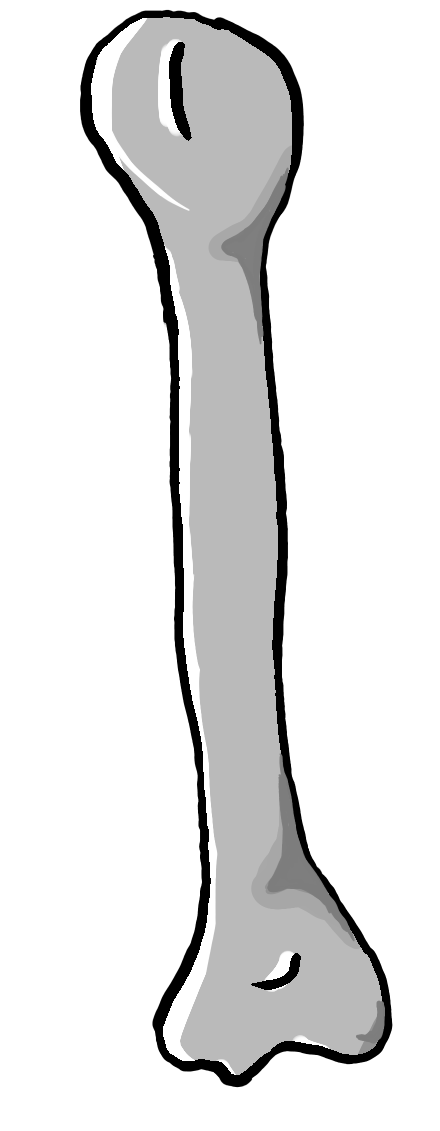
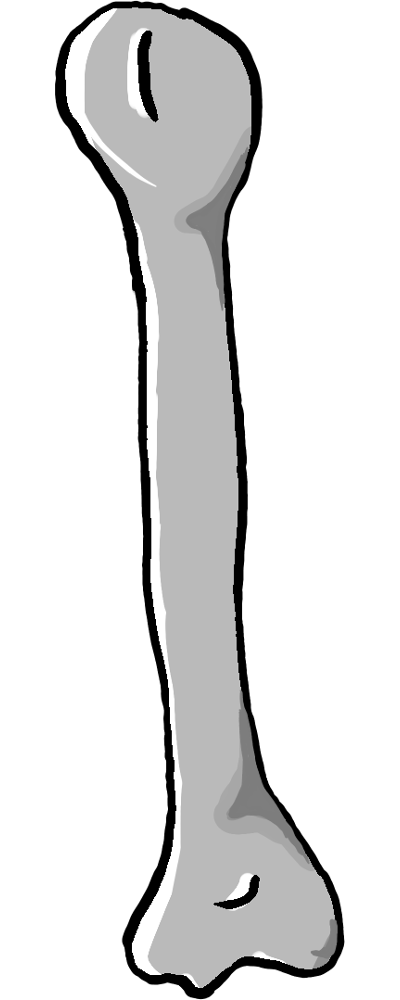
image tweaks for segment images. custom segment positions

Changed region(s): [[0.12, 0.0, 0.9, 1.0]]

diff --git a/posenet/demos/demo_util.js b/posenet/demos/demo_util.js
@@ -86,16 +86,16 @@ export function drawPoint(selection, y, x, r, color) {
 /**
  * Draws a line on a canvas, i.e. a joint
  */
-export function drawSegment([ay, ax], [by, bx], image, selection) {
-  const scale = Math.sqrt((ax - bx) * (ax - bx) + (ay - by) * (ay - by)) / 400.0;
+export function drawSegment([ay, ax], [by, bx], info, selection) {
+  const scale = Math.sqrt((ax - bx) * (ax - bx) + (ay - by) * (ay - by)) / info.height;
   const angle = Math.atan2(by-ay, bx-ax) * 180 / Math.PI - 90;
   selection.append('image')
       .classed('overlay_item', true)
-      .attr('x', -100)
-      .attr('y', -100)
-      .attr('width', 200)
-      .attr('height', 600)
-      .attr('xlink:href', 'skeletonImages/' + image)
+      .attr('x', -200)
+      .attr('y', -info.y)
+      .attr('width', 400)
+      .attr('height', 1000)
+      .attr('xlink:href', 'skeletonImages/' + info.name)
       .attr('transform', `translate(${ax} ${ay}) scale(${scale}) rotate(${angle})`);
 }
 
@@ -124,16 +124,16 @@ export function drawSurface(keypoints, imageInfo, selection) {
       .attr('transform', `translate(${ax} ${ay}) scale(${scaleX} ${scaleY}) rotate(${angle})`);
 }
 
-function getAdjacencyImage(name) {
+function getAdjacencyImageInfo(name) {
   switch(name) {
-    case 'rightElbow_rightWrist' : return 'rightForearm.png';
-    case 'leftElbow_leftWrist' : return 'leftForearm.png';
-    case 'rightShoulder_rightElbow' : return 'rightBicep.png';
-    case 'leftShoulder_leftElbow' : return 'leftBicep.png';
-    case 'rightHip_rightKnee' : return 'rightThigh.png';
-    case 'leftHip_leftKnee' : return 'leftThigh.png';
-    case 'rightKnee_rightAnkle' : return 'rightShin.png';
-    case 'leftKnee_leftAnkle' : return 'leftShin.png';
+    case 'rightElbow_rightWrist' :    return { name: 'rightForearm.png', y: 40, height: 500};
+    case 'leftElbow_leftWrist' :      return { name:'leftForearm.png', y: 40, height: 500};
+    case 'rightShoulder_rightElbow' : return { name:'rightBicep.png', y: 78, height: 888};
+    case 'leftShoulder_leftElbow' :   return { name:'leftBicep.png', y: 78, height: 888};
+    case 'rightHip_rightKnee' :       return { name:'rightThigh.png', y: 42, height: 918};
+    case 'leftHip_leftKnee' :         return { name:'leftThigh.png', y: 42, height: 918};
+    case 'rightKnee_rightAnkle' :     return { name:'rightShin.png', y: 36, height: 760};
+    case 'leftKnee_leftAnkle' :       return { name:'leftShin.png', y: 36, height: 760};
   }
   console.log('missed adjacency name = ' + name);
   return 'missing.png';
@@ -166,9 +166,9 @@ export function drawSkeleton(keypoints, minConfidence, selection, scale = 1) {
       posenet.getAdjacentKeyPoints(keypoints, minConfidence);
 
   adjacentKeyPoints.forEach((keypoints) => {
-    const imageName = getAdjacencyImage(keypoints[0].part + '_' + keypoints[1].part);
+    const imageInfo = getAdjacencyImageInfo(keypoints[0].part + '_' + keypoints[1].part);
     drawSegment(
-        toTuple(keypoints[0].position), toTuple(keypoints[1].position), imageName, selection);
+        toTuple(keypoints[0].position), toTuple(keypoints[1].position), imageInfo, selection);
   });
 }
 
